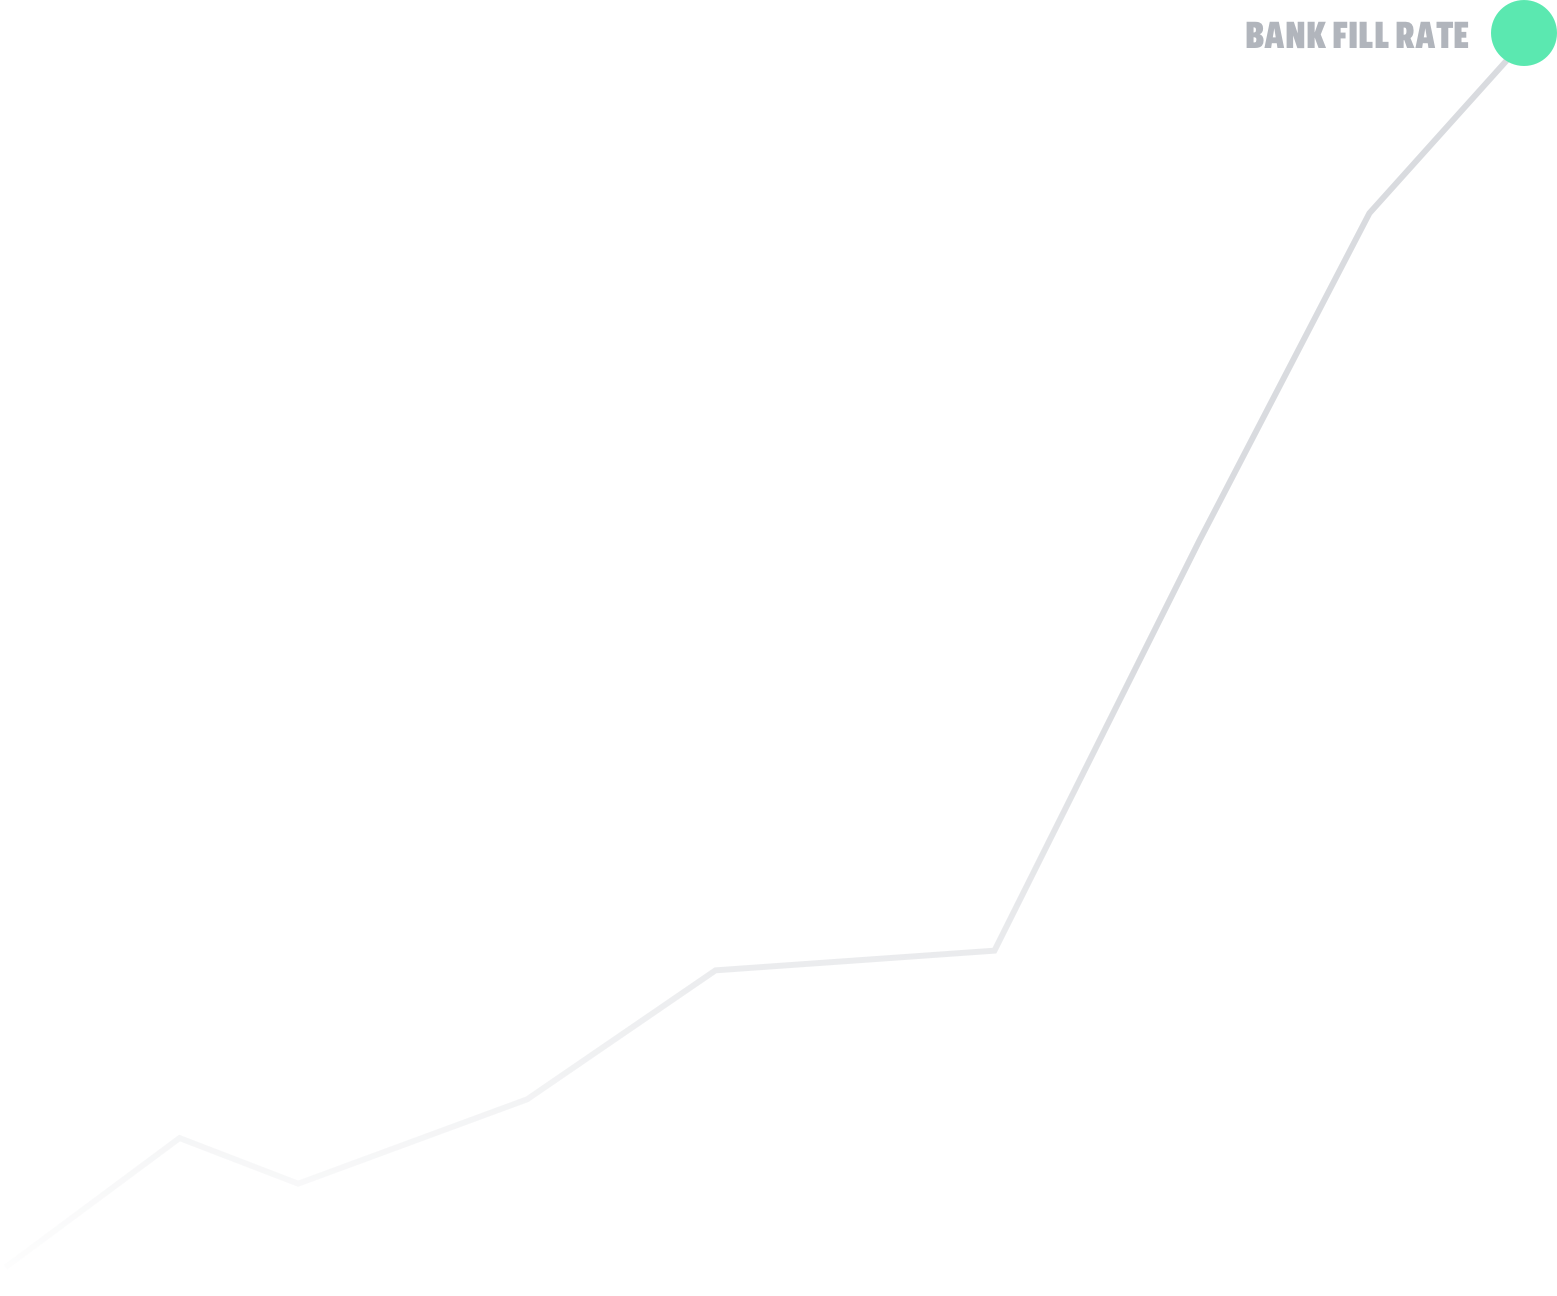
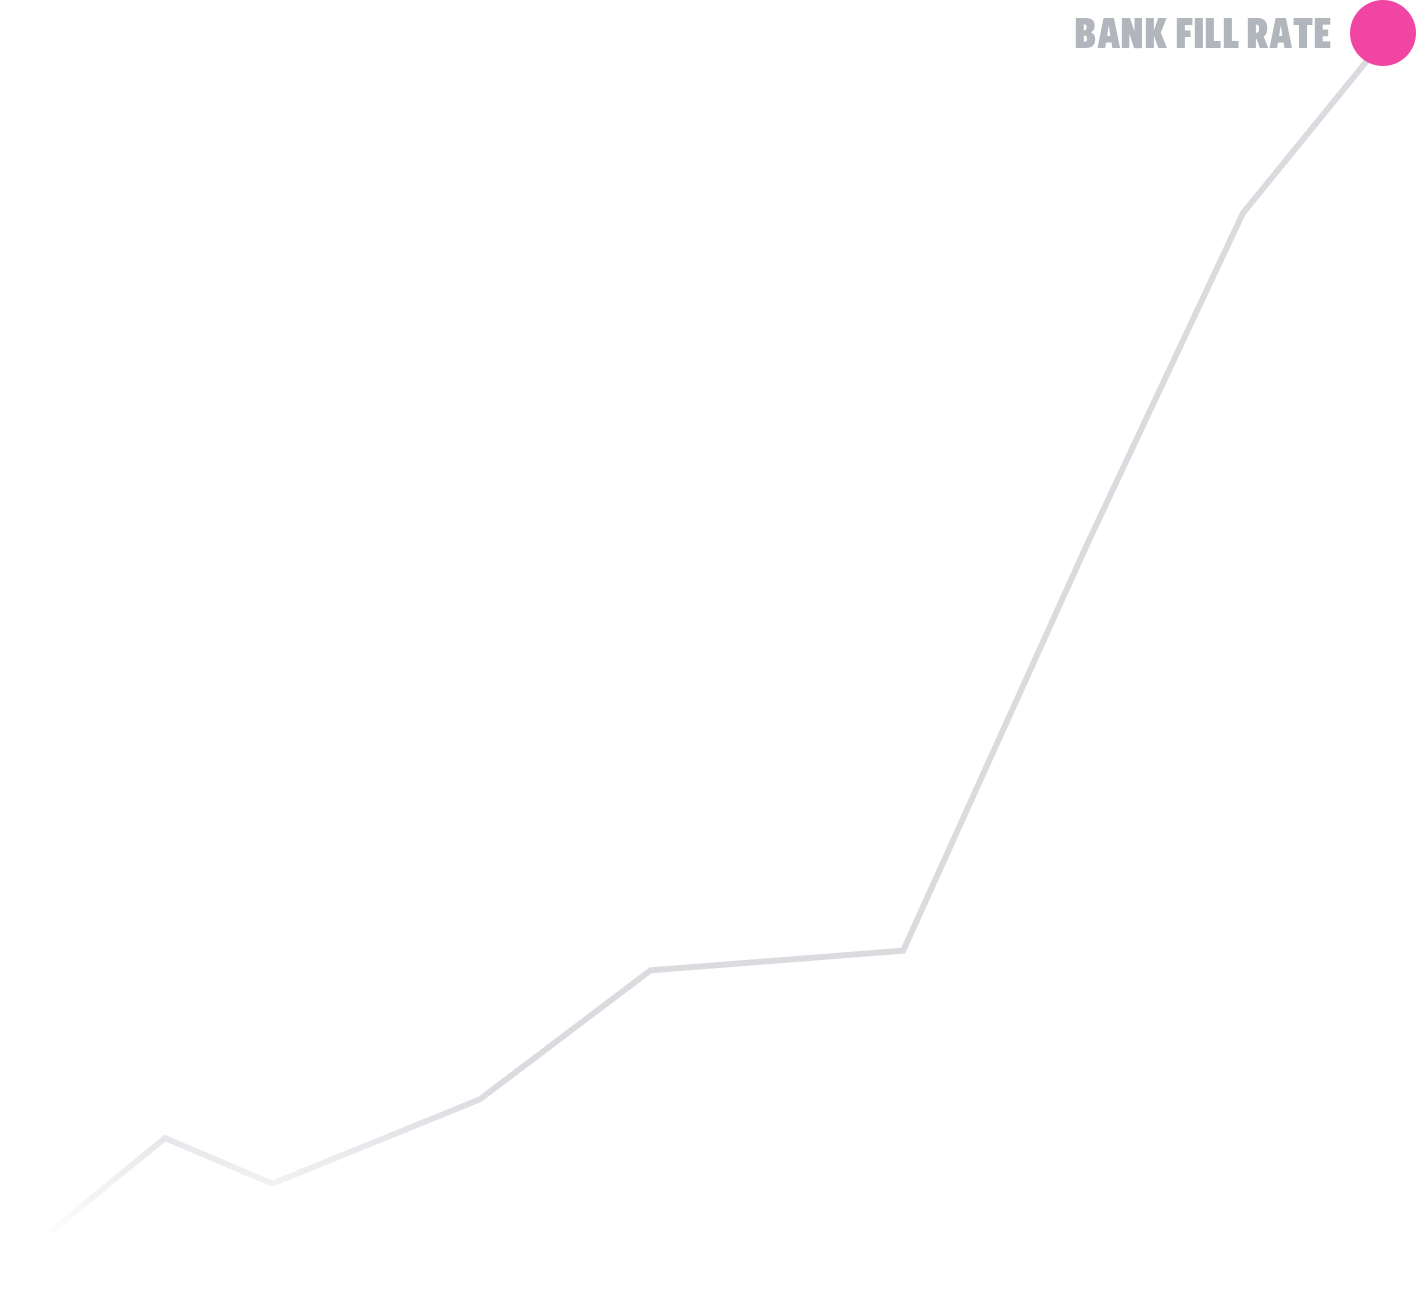
Improved the Bank Fill Line Graph

Changed region(s): [[0.7458, 0.0, 1.0, 0.0926], [0.9011, 0.0926, 0.9322, 0.1235]]

diff --git a/_stylesheets/main.scss b/_stylesheets/main.scss
@@ -290,15 +290,14 @@ strong {
   }
 
   @include from($tablet) {
-    background-image: url(/assets/bank-fill-line-large.png);
+    background-image: url(/assets/bank-fill-line-fade-large.png);
     padding-bottom: 6rem;
     background-position: top right;
     margin-top: 2rem;
   }
 
-  @include from($desktop) {
-    background-image: url(/assets/bank-fill-line-fade-large.png);
-  }
+  // @include from($desktop) {
+  // }
 
 }
 
